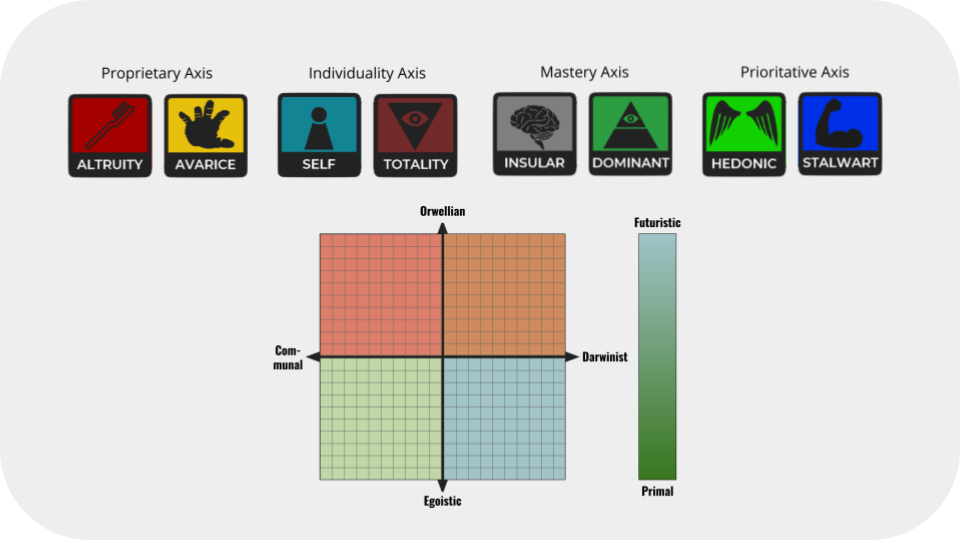
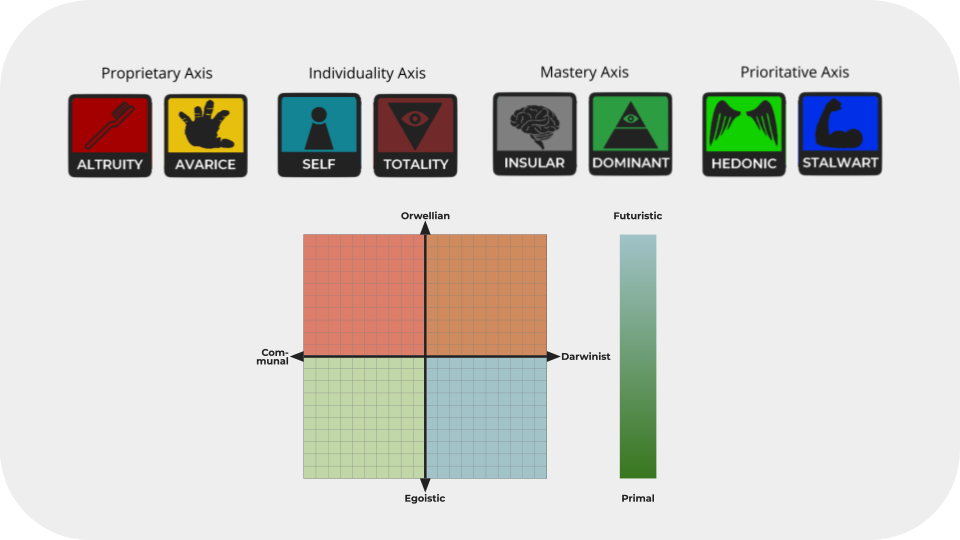
Fixed the compass more, updated home screen image, fixed bar display on results

Changed region(s): [[0.25, 0.3852, 0.7188, 0.9481]]

diff --git a/results.html b/results.html
@@ -42,8 +42,8 @@
     
                 var line = c.getContext("2d");
                 line.beginPath();
-                line.moveTo(1500, 1145 - (1000 * (z_axis + 10)/20));
-                line.lineTo(1650, 1145 - (1000 * (z_axis + 10)/20));
+                line.moveTo(1500, 1145 - (990 * (z_axis + 10)/20));
+                line.lineTo(1650, 1145 - (990 * (z_axis + 10)/20));
                 line.lineWidth = 10;
                 line.strokeStyle = "red";
                 line.stroke();
